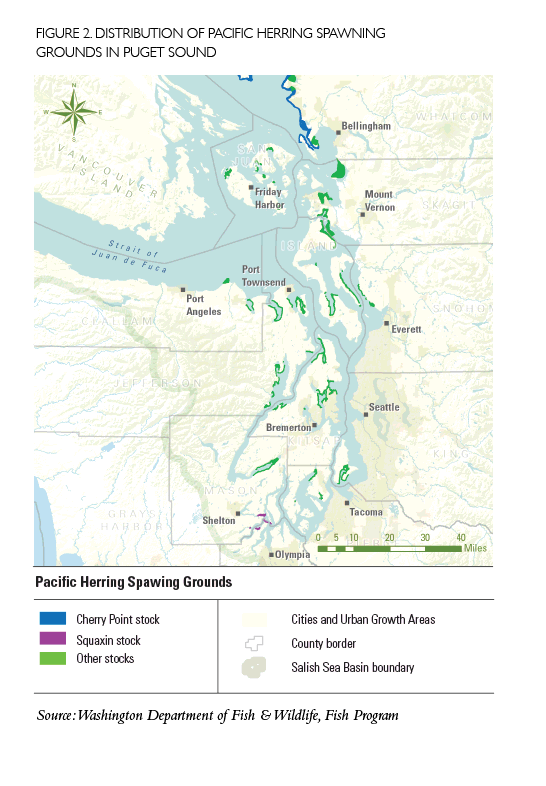
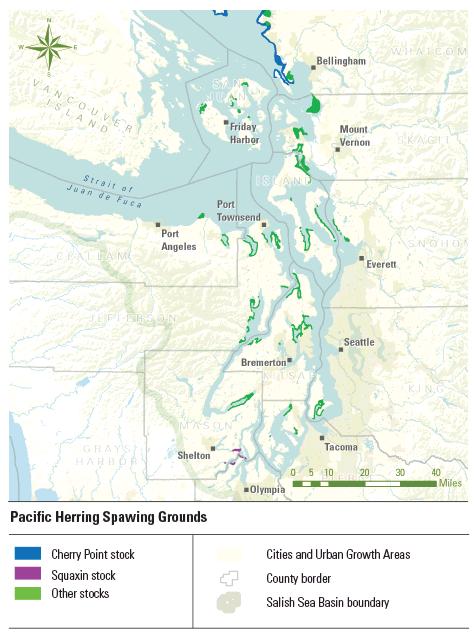
Pacific Herring stuffs

diff --git a/pacific_herring_indicator1.php b/pacific_herring_indicator1.php
@@ -82,23 +82,30 @@ $(function() {
 		  <h3>FIGURE 1.</h3>
 			<p><img src="images/pacific-herring-chart.png" width="750" height="398" alt="Spawning biomass of Pacific herring stocks in Puget Sound, in tons, 1973-2014" />
 		  </p>
-			<p>The biomass of herring in Central and Southern Puget Sound, while variable, has shown only a slight negative trend over the past 40+ years. The population of the once largest, and genetically unique, stock of Pacific herring, the spring spawning Cherry Point stock in North Puget Sound, has declined by over 90 percent since 1973. The other stock that has been identified as genetically distinct, the Squaxin Pass stock in the very south of Puget Sound, has increased slightly in spawning biomass since 1973.</p>
-<p>The Puget Sound herring data are characterized by broad year-to-year fluctuations, which is typical of Pacific herring and other forage fish populations, and likely reflects natural environmental and demographic variability.</p>
-<p>Indeed, in Puget Sound, the bulk of the biomass of the “all other stocks” grouping is contributed by different stocks in different years, further implicating the role of site-specific variability.  In recent years the biomass of the Quilcene Bay stock has consistently substantially bolstered the overall estimate for the other stocks complex.</p>
+			<p>Annual spawner abundance estimates for each stock are shown with solid lines; each color corresponds to a different stock. The dotted lines represent the 25-year mean from 1986 to 2010 for the corresponding stock. The 2020 target is shown with a dot for each stock.<br />
+		    <em>Source: Washington Department of Fish &amp; Wildlife, Marine Fish Program</em></p>
+			  <p>The biomass of herring in Central and Southern Puget Sound, while variable, has shown only a slight negative trend over the past 40+ years. The Puget Sound herring data are characterized by broad year-to-year fluctuations, which is typical of Pacific herring and other forage fish populations, and likely reflects natural environmental and demographic variability.</p>
+		    <p>Indeed, in Puget Sound, the bulk of the biomass of the “all other stocks” grouping is contributed by different stocks in different years, further implicating the role of site-specific variability.  In recent years the biomass of the Quilcene Bay stock has substantially bolstered the overall estimate for the other stocks complex. Quilcene Bay biomass is currently at an all-time high (more than double its ten year average) and, along with the two other Hood canal populations, made up over half of the spawn biomass for Puget Sound as a whole in 2016.</p>
 <h5>Why is this happening?</h5>
-<p>The exact causes of the Cherry Point herring decline are unknown, but it has been variously attributed to many potential factors such as chronic pollution (e.g., PCB and PAH contaminants), oil spills, overfishing, parasites, disease, and changes in abundance of predators or prey. Changes to the natural shoreline, including nearby industrial construction and operation, may also play a role. Finally, the extent to which food-web interactions may limit herring populations, and how such interactions are mediated by the effects of climate change, are not well understood. Further studies are needed to elucidate the effect of these possible pressures.</p>
-<p>Several factors contribute to difficulties in understanding Cherry Point herring stock declines and in the trends of other herring stocks, including survey methods and exploitation rate analysis.</p>
-<p>Since 1973 at Cherry Point and 1986 for the rest of the stocks, the Department of Fish & Wildlife conducted a combination of Spawn Deposition surveys and Acoustic-Trawl surveys to estimate herring spawning biomass. Until 1996, the spawning biomass of the larger Puget Sound stocks typically was assessed by both methods each year, while the smaller stocks were surveyed by spawn deposition surveys every three years. Since 1996, duplicate assessment coverage was reduced and assessment for all known herring stocks was attempted each year by at least one survey method. Acoustic-Trawl surveys were discontinued in 2009 due to budget reductions but spawn deposition surveys have been conducted annually for each stock since that time.</p>
-<p>In addition to spawning biomass, biological samples used to estimate growth, mortality, and recruitment were obtained from the Acoustic-Trawl surveys. These data, which are not currently being collected, are useful for assessing the stocks’ population dynamics and capacity to meet the targets, and to understand the mechanisms driving these trends. </p>
-<p>For example, for the Cherry Point and most other Puget Sound stocks, there has been a shift in the age structure of the population since the late 1970s and early 1980s toward younger fish, which probably affected their productivity and slowed recovery. </p>
-<p>As mentioned above, not all spawning grounds/stocks have been surveyed every year, especially in the 70s and 80s. To complete the time series depicted in Figure 1, data gaps were filled in with the long-term average for the stocks with missing data. Given the importance of this indicator to the recovery of the Sound, monitoring methods and analysis should be reviewed and improved to more completely and accurately report status and trends.</p>
-<p>Commercial exploitation of Puget Sound herring is limited to a bait fishery, which is allowed to take up to 10% of the cumulative Puget Sound spawning biomass of Central and South Puget Sound stocks. These fisheries do not occur on the spawning grounds and target immature fish deriving from various stocks.  Landings in the past 10 years have ranged from 3% to 5% of this total and are not expected to increase significantly in the near future. This is a conservative exploitation rate, compared to a typical global exploitation rate of 20%. Although a 10% exploitation rate is precautionary, a more rigorous analysis of an appropriate exploitation rate, that accounts for current population dynamics (including age composition) and ecosystem needs (e.g., the extent of predator dependency on forage fish), is desirable to ensure sustainability of the Puget Sound herring population at large.</p>
+
+<p>effects of climate change, are not well understood. Further studies are needed to elucidate the effect of these possible pressures.<br />
+  Several factors contribute to difficulties in understanding Cherry Point herring stock declines and in the trends of other herring stocks, including survey methods and exploitation rate analysis.</p>
+  <p>Since 1973 at Cherry Point and 1986 for the rest of the stocks, the Department of Fish &amp; Wildlife conducted a combination of Spawn Deposition surveys and Acoustic-Trawl surveys to estimate herring spawning biomass. Until 1996, the spawning biomass of the larger Puget Sound stocks typically was assessed by both methods each year, while the smaller stocks were surveyed by spawn deposition surveys every three years. Since 1996, duplicate assessment coverage was reduced and assessment for all known herring stocks was attempted each year by at least one survey method. Acoustic-Trawl surveys were discontinued in 2009 due to budget reductions, but spawn deposition surveys have been conducted annually for each stock since that time.</p>
+  <p>In addition to spawning biomass, biological samples used to estimate growth, mortality, and recruitment were obtained from the Acoustic-Trawl surveys. These data, which are not currently being collected, are useful for assessing the stocks’ population dynamics and capacity to meet the targets, and to understand the mechanisms driving these trends.</p>
+  <p>For example, for the Cherry Point and most other Puget Sound stocks, there has been a shift in the age structure of the population since the late 1970s and early 1980s toward younger fish, which probably affected their productivity and slowed recovery.</p>
+  <p>As mentioned above, not all spawning grounds/stocks have been surveyed every year, especially in the 70s and 80s. To complete the time series depicted in Figure 1, data gaps were filled in with the long-term average for the stocks with missing data. Given the importance of this indicator to the recovery of the Sound, monitoring methods and analysis should be reviewed and improved to more completely and accurately report status and trends.</p>
+  <p>Commercial exploitation of Puget Sound herring is limited to a bait fishery, which is allowed to take up to 10% of the cumulative Puget Sound spawning biomass of Central and South Puget Sound stocks. These fisheries do not occur on the spawning grounds and target immature fish deriving from various stocks.  Landings in the past 10 years have ranged from 3% to 5% of this total and are not expected to increase significantly in the near future. This is a conservative exploitation rate, compared to a typical global exploitation rate of 20%. Although a 10% exploitation rate is precautionary, a more rigorous analysis of an appropriate exploitation rate, that accounts for current population dynamics (including age composition) and ecosystem needs (e.g., the extent of predator dependency on forage fish), is desirable to ensure sustainability of the Puget Sound herring population at large.</p>
 
 			
 			<!--*********************************PINK HEADER*********************************-->
-			<div class="pinkBarHeader">Maps</div>
-			<img src="images/vs10_herring_spawning_map.png" width="546" height="786" alt="Pacific herring spawning grounds in Puget Sound"/>
-			<p>Genetic studies support designation of three separate groupings of Puget Sound herring stocks. Since this map was created, Pacific herring were found spawning in Elliott Bay near Seattle.</p>
+		  <div class="pinkBarHeader">Maps</div>
+          <h3>FIGURE 2.</h3>
+          <h4>DISTRIBUTION OF PACIFIC HERRING SPAWNING GROUNDS IN PUGET SOUND<br />
+<em>2014</em></h4>
+			<img src="images/vs10_herring_spawning_map.png" alt="Pacific herring spawning grounds in Puget Sound"/>
+			<p>
+			  <em>Source: Washington Department of Fish &amp; Wildlife, Fish Program</em><br />
+		    Genetic studies support designation of three separate groupings of Puget Sound herring stocks. Since this map was created, Pacific herring were found spawning in Elliott Bay near Seattle.</p>
 		</div>
 	</div>
 </div>
